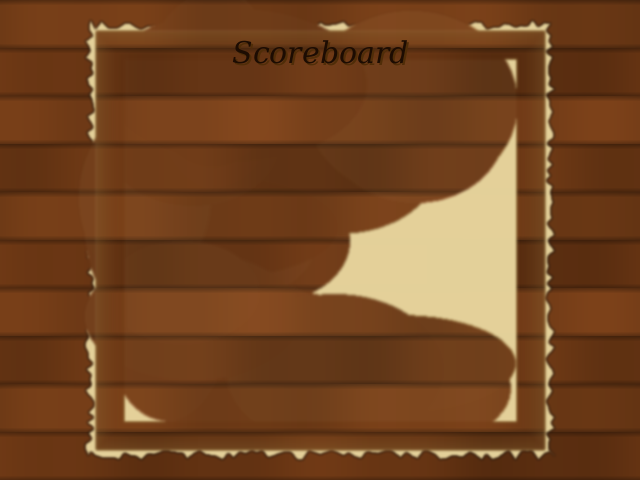
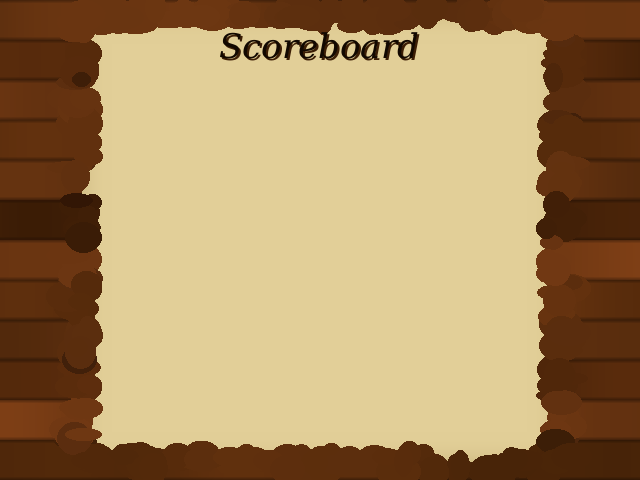
Use actual image URL as primary background, fix color-mix() browser compatibility

diff --git a/public/index.html b/public/index.html
@@ -26,7 +26,7 @@
             position: relative;
             width: min(640px, 100vw);
             aspect-ratio: 4 / 3;
-            background-image: url('scoreboard_bg.png');
+            background-image: url('https://github.com/user-attachments/assets/105556f5-9327-43b6-adf7-d2df8ddbb835'), url('scoreboard_bg.png');
             background-size: cover;
             background-repeat: no-repeat;
             background-position: center;
@@ -57,8 +57,8 @@
             color: var(--clr-ink-mid);
             border-bottom: 1px solid var(--clr-border);
         }
-        tr:nth-child(even) { background: color-mix(in srgb, var(--clr-accent) 12%, transparent); }
-        tr:hover           { background: color-mix(in srgb, var(--clr-accent) 22%, transparent); }
+        tr:nth-child(even) { background: rgba(139, 101, 50, 0.12); background: color-mix(in srgb, var(--clr-accent) 12%, transparent); }
+        tr:hover           { background: rgba(139, 101, 50, 0.22); background: color-mix(in srgb, var(--clr-accent) 22%, transparent); }
         .rank  { color: var(--clr-ink-mid); font-weight: bold; width: 2rem; }
         .score { color: var(--clr-score);   font-weight: bold; }
         #status {
